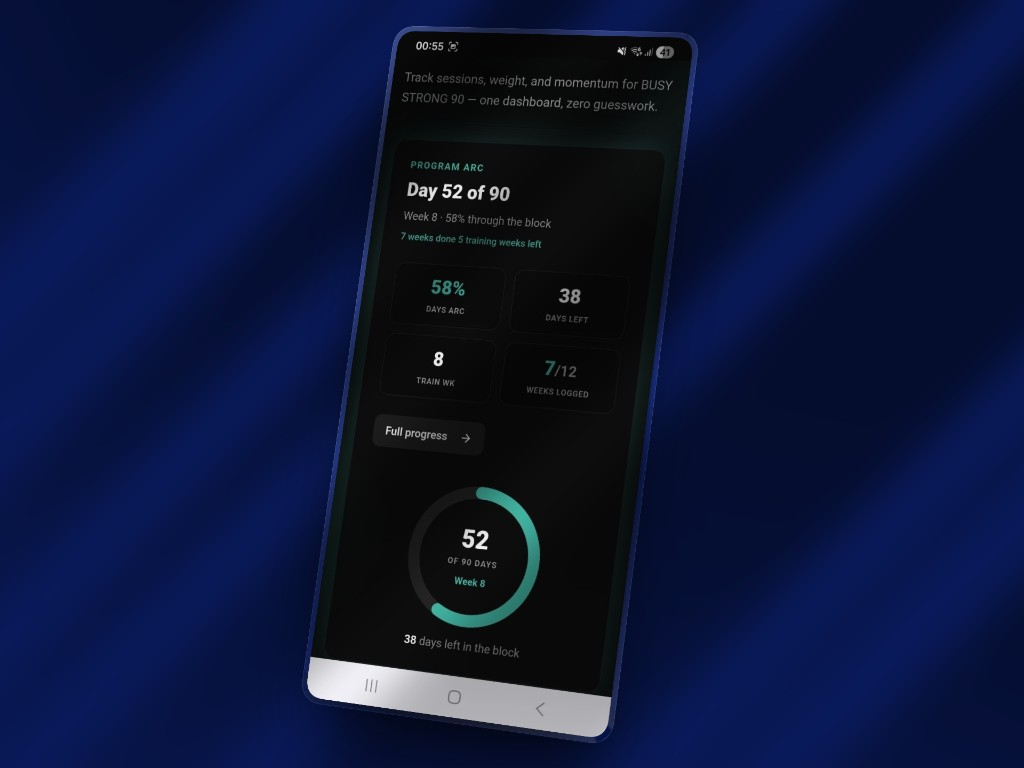
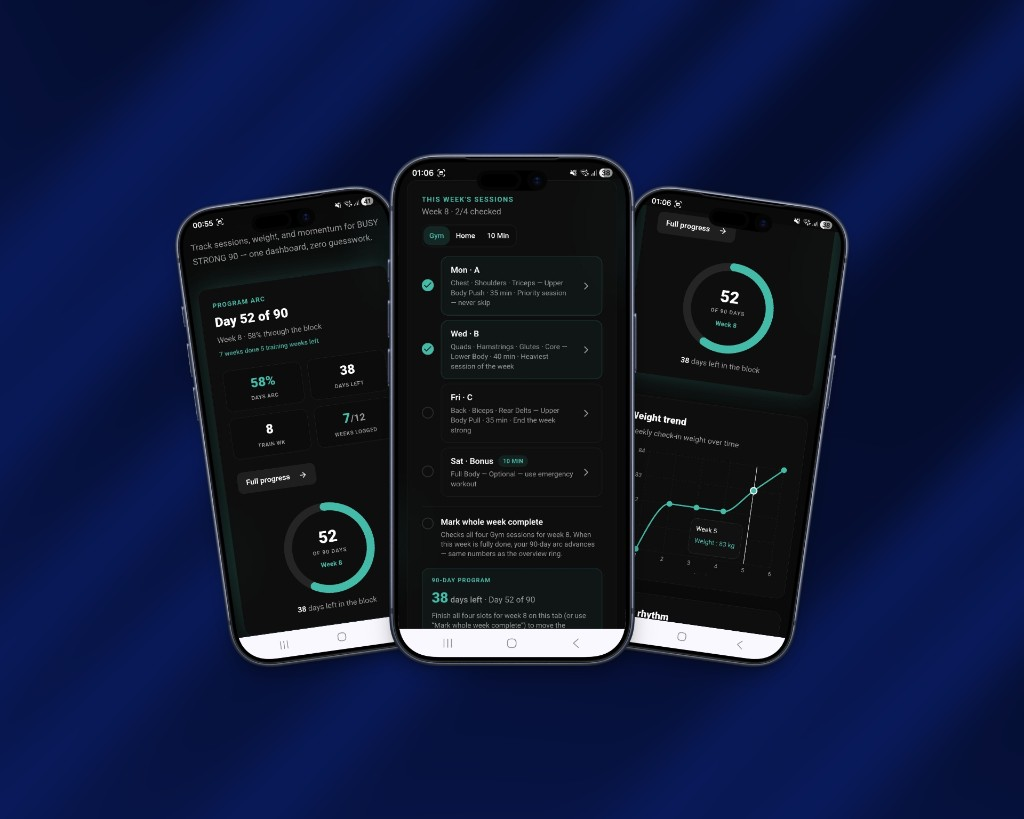
Swap What I do hover mockups and pin Selected Work after the title.

diff --git a/lumora/index.html b/lumora/index.html
@@ -850,6 +850,7 @@ html{scroll-padding-top:4.25rem}
   position:relative;
   color:var(--pf-ink);
   background:var(--pf-bg);
+  padding-top:5.25rem;
 }
 .portfolio-track{position:relative;height:calc(320svh + 10vh)}
 @media(min-width:900px){
@@ -857,19 +858,19 @@ html{scroll-padding-top:4.25rem}
 }
 .portfolio-sticky{
   position:sticky;
-  top:0;
-  min-height:100svh;
+  top:4.25rem;
+  min-height:calc(100svh - 4.25rem);
   overflow:visible;
   display:flex;
   flex-direction:column;
   justify-content:flex-start;
-  padding:5.5rem 0 3rem;
+  padding:0 0 2.5rem;
 }
 @media(min-width:900px){
   .portfolio-sticky{
     justify-content:flex-start;
-    min-height:100svh;
-    padding:5.75rem 0 2.5rem;
+    min-height:calc(100svh - 4.25rem);
+    padding:0 0 2.5rem;
   }
 }
 .portfolio__inner{
@@ -887,7 +888,9 @@ html{scroll-padding-top:4.25rem}
   align-items:center;
   text-align:center;
   width:100%;
-  margin-bottom:clamp(1.25rem, 3vh, 2.25rem);
+  margin:0 auto clamp(1.25rem, 3vh, 2.25rem);
+  padding:0 1.25rem;
+  box-sizing:border-box;
 }
 .portfolio__h2{
   font-size:2.25rem;
@@ -1183,7 +1186,7 @@ html{scroll-padding-top:4.25rem}
 .portfolio__case-link:hover{text-decoration:underline}
 @media (prefers-reduced-motion:reduce){
   .portfolio-track{height:auto}
-  .portfolio-sticky{position:relative;min-height:0;padding:4.5rem 0 5rem}
+  .portfolio-sticky{position:relative;top:auto;min-height:0;padding:0 0 5rem}
   .coverflow__card{transition:none!important}
   .coverflow__dim{transition:none!important}
 }
@@ -1888,18 +1891,17 @@ html.lenis,html.lenis body{height:auto}
   </div>
 
   <section class="portfolio" id="works" data-nav-theme="light">
+    <header class="portfolio__head">
+      <div class="reveal" data-reveal data-io>
+        <span class="eyebrow eyebrow--dark eyebrow--pill"><span class="eyebrow__dot"></span>Portfolio</span>
+      </div>
+      <h2 class="portfolio__h2" data-lines data-io data-delay="120">
+        <span class="line-clip"><span>Selected Work</span></span>
+      </h2>
+    </header>
     <div class="portfolio-track" id="portfolioTrack">
       <div class="portfolio-sticky">
         <div class="shell portfolio__inner">
-          <header class="portfolio__head">
-            <div class="reveal" data-reveal data-io>
-              <span class="eyebrow eyebrow--dark eyebrow--pill"><span class="eyebrow__dot"></span>Portfolio</span>
-            </div>
-            <h2 class="portfolio__h2" data-lines data-io data-delay="120">
-              <span class="line-clip"><span>Selected Work</span></span>
-            </h2>
-          </header>
-
           <div class="coverflow" id="coverflow" tabindex="0" role="group" aria-roledescription="carousel" aria-label="Selected work gallery">
             <div class="coverflow__stage" id="coverflowStage"></div>
           </div>
@@ -1958,7 +1960,7 @@ html.lenis,html.lenis body{height:auto}
       <div class="solutions__rule" aria-hidden="true"></div>
       <div class="solutions__grid">
         <article class="solutions__card">
-          <div class="solutions__media" style="background-image:url('./assets/solutions/site-laptop.jpg')"></div>
+          <div class="solutions__media" style="background-image:url('./assets/solutions/site-laptop.png')"></div>
           <p class="solutions__kicker">01 Websites and platforms</p>
           <h3 class="solutions__title">Fast and responsive websites</h3>
           <div class="solutions__panel">
